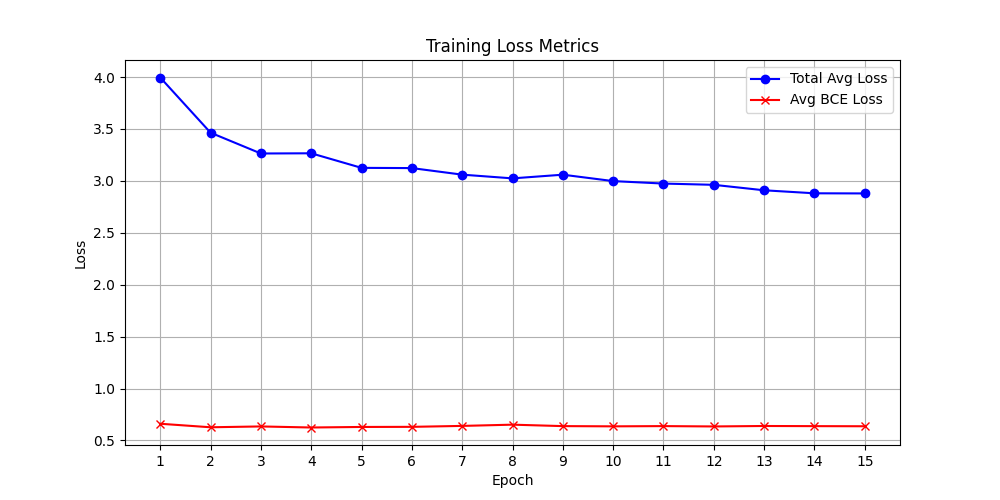
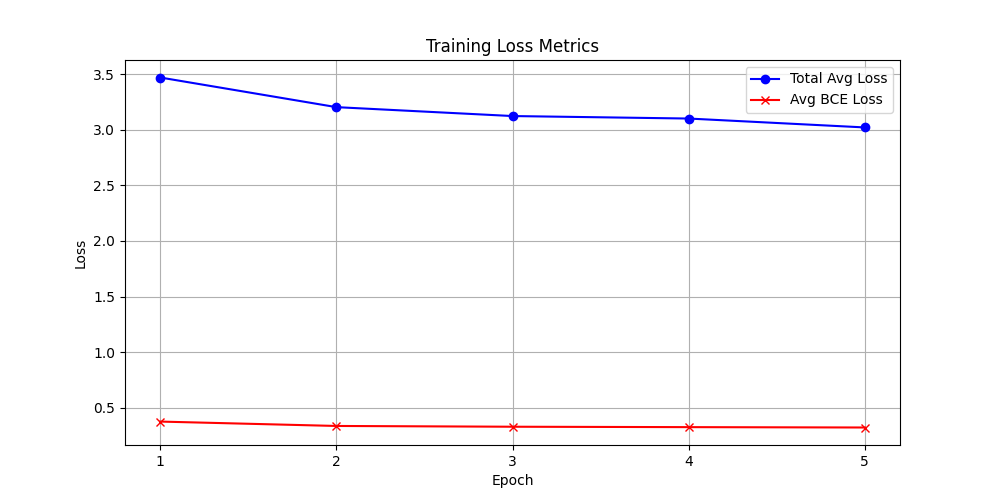
fix: ngubah dataset.py agar jd adaptif sama penamaan label

diff --git a/skripsi_code/dataset.py b/skripsi_code/dataset.py
@@ -14,20 +14,30 @@ class ForgeryDataset(Dataset):
         
         self.image_files = []
         
-        # We assume for each image like 1_10.jpg, there is a mask 1_10_label.jpg
+        valid_extensions = ('.jpg', '.jpeg', '.png', '.bmp', '.tif', '.tiff')
         for file in os.listdir(fake_dir):
-            if file.endswith(('.jpg', '.png', '.jpeg')):
-                basename = file.split('.')[0]
-                # Guess mask name: Some use 1_10_label.jpg or just 1_10.jpg or 1_10.png
-                mask_file1 = f"{basename}_label.jpg"
-                mask_file2 = f"{basename}_label.png"
-                mask_file3 = file # Exactly same
+            if file.lower().endswith(valid_extensions):
+                basename, _ = os.path.splitext(file)
                 
-                # Check which one exists
+                # Possible mask filenames to check
+                possible_mask_names = [
+                    f"{basename}_label.jpg",
+                    f"{basename}_label.png",
+                    f"{basename}_label.jpeg",
+                    f"{basename}_gt.jpg",
+                    f"{basename}_gt.png",
+                    f"{basename}_gt.jpeg",
+                    f"{basename}.jpg",
+                    f"{basename}.png",
+                    f"{basename}.jpeg",
+                    file  # Exactly same name
+                ]
+                
                 mask_path = None
-                for mf in [mask_file1, mask_file2, mask_file3]:
-                    if os.path.exists(os.path.join(mask_dir, mf)):
-                        mask_path = os.path.join(mask_dir, mf)
+                for mf in possible_mask_names:
+                    candidate_path = os.path.join(mask_dir, mf)
+                    if os.path.exists(candidate_path):
+                        mask_path = candidate_path
                         break
                 
                 if mask_path is not None:

diff --git a/coba-Editing-1/main.py b/coba-Editing-1/main.py
@@ -1,0 +1,6 @@
+def main():
+    print("a")
+
+if __name__ == "__main__":
+    main()
+

diff --git a/skripsi_code/test.py b/skripsi_code/test.py
@@ -19,8 +19,8 @@ def evaluate_and_visualize():
 
     # 1. Dataset & DataLoader (We use the same sample folders for demo purposes)
     dataset = ForgeryDataset(
-        fake_dir='data/images',
-        mask_dir='data/masks'
+        fake_dir='data-CASIA1/fake',
+        mask_dir='data-CASIA1/mask'
     )
     dataloader = DataLoader(dataset, batch_size=1, shuffle=False)
 
@@ -55,7 +55,7 @@ def evaluate_and_visualize():
             mask_feat, mask_binary, cls_4, cls_3, cls_2, cls_1 = SegNet(features, images)
             
             # mask_binary is [B, 256, 256] from sigmoid layer. Threshold it > 0.5
-            pred_mask = (mask_binary > 0.5).float()
+            pred_mask = (mask_binary > 0.2).float()
 
             # Move to CPU for visualization
             img_disp = images[0].cpu().permute(1, 2, 0).numpy()

diff --git a/skripsi_code/train.py b/skripsi_code/train.py
@@ -25,8 +25,8 @@ def train():
 
     # 1. Dataset & DataLoader
     dataset = ForgeryDataset(
-        fake_dir='data/images',
-        mask_dir='data/masks'
+        fake_dir='data-CASIA1/fake',
+        mask_dir='data-CASIA1/mask'
     )
     dataloader = DataLoader(dataset, batch_size=2, shuffle=True, num_workers=0, drop_last=True)
 

diff --git a/coba-Editing-1/train.py b/coba-Editing-1/train.py
@@ -1,0 +1,3 @@
+import os
+from PIL import Image
+from 